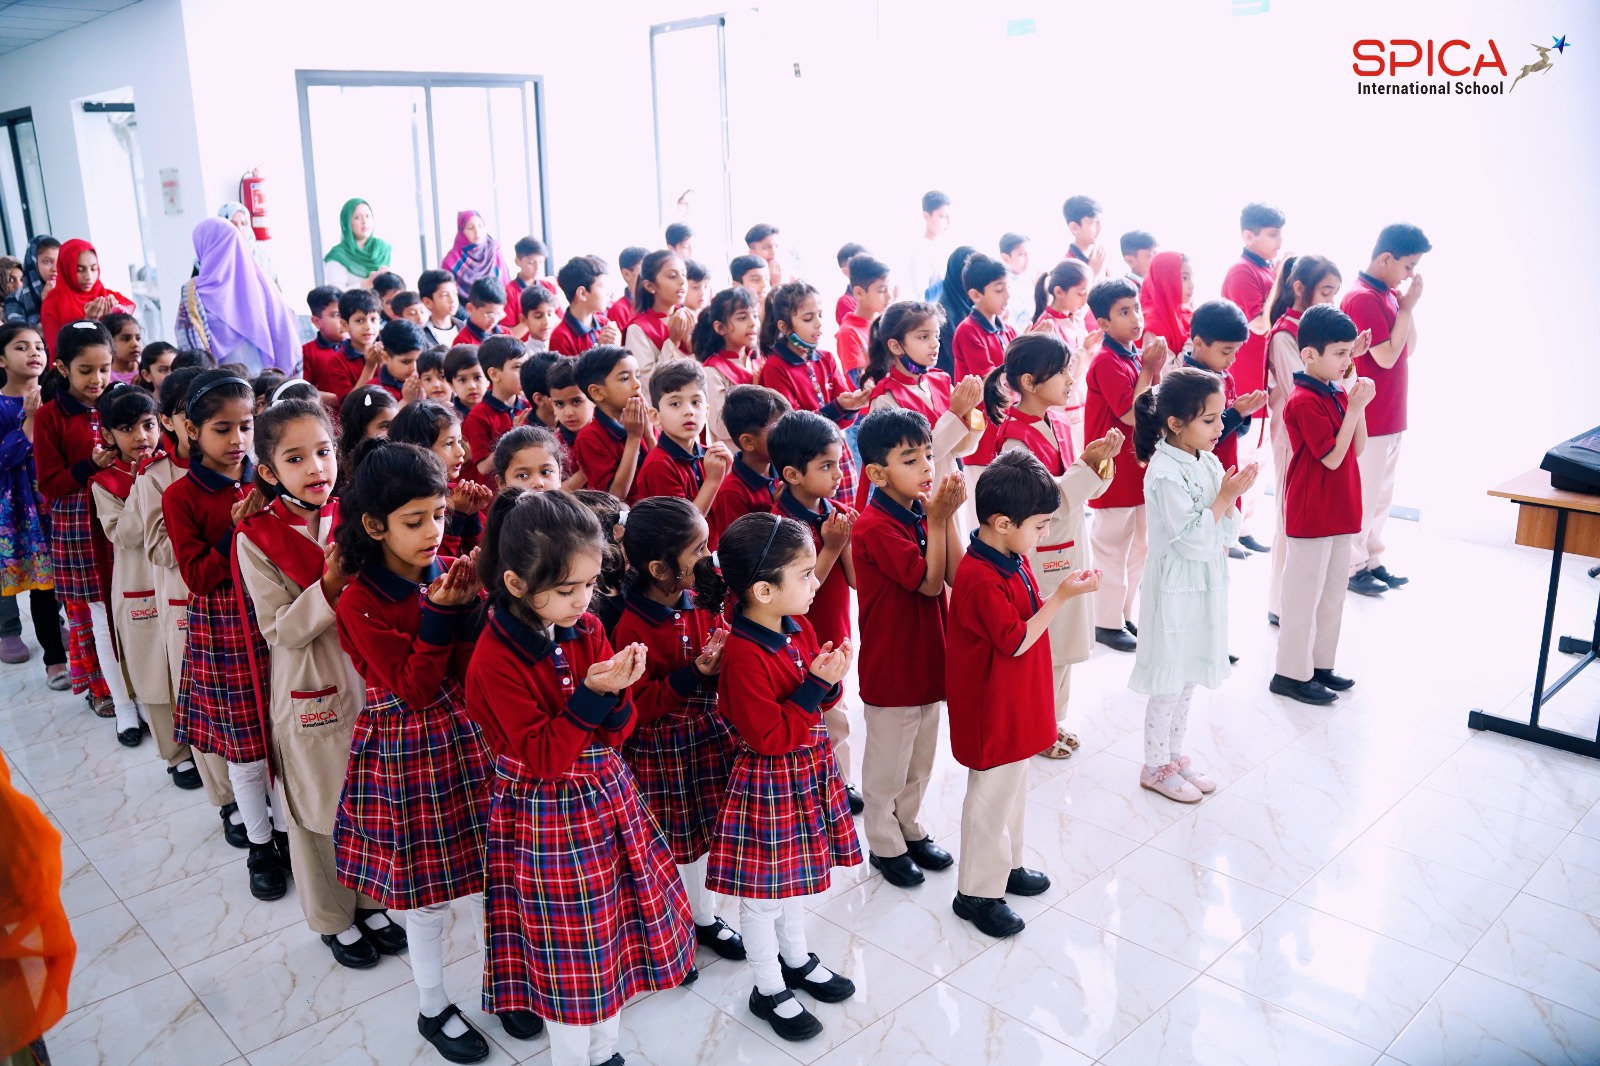
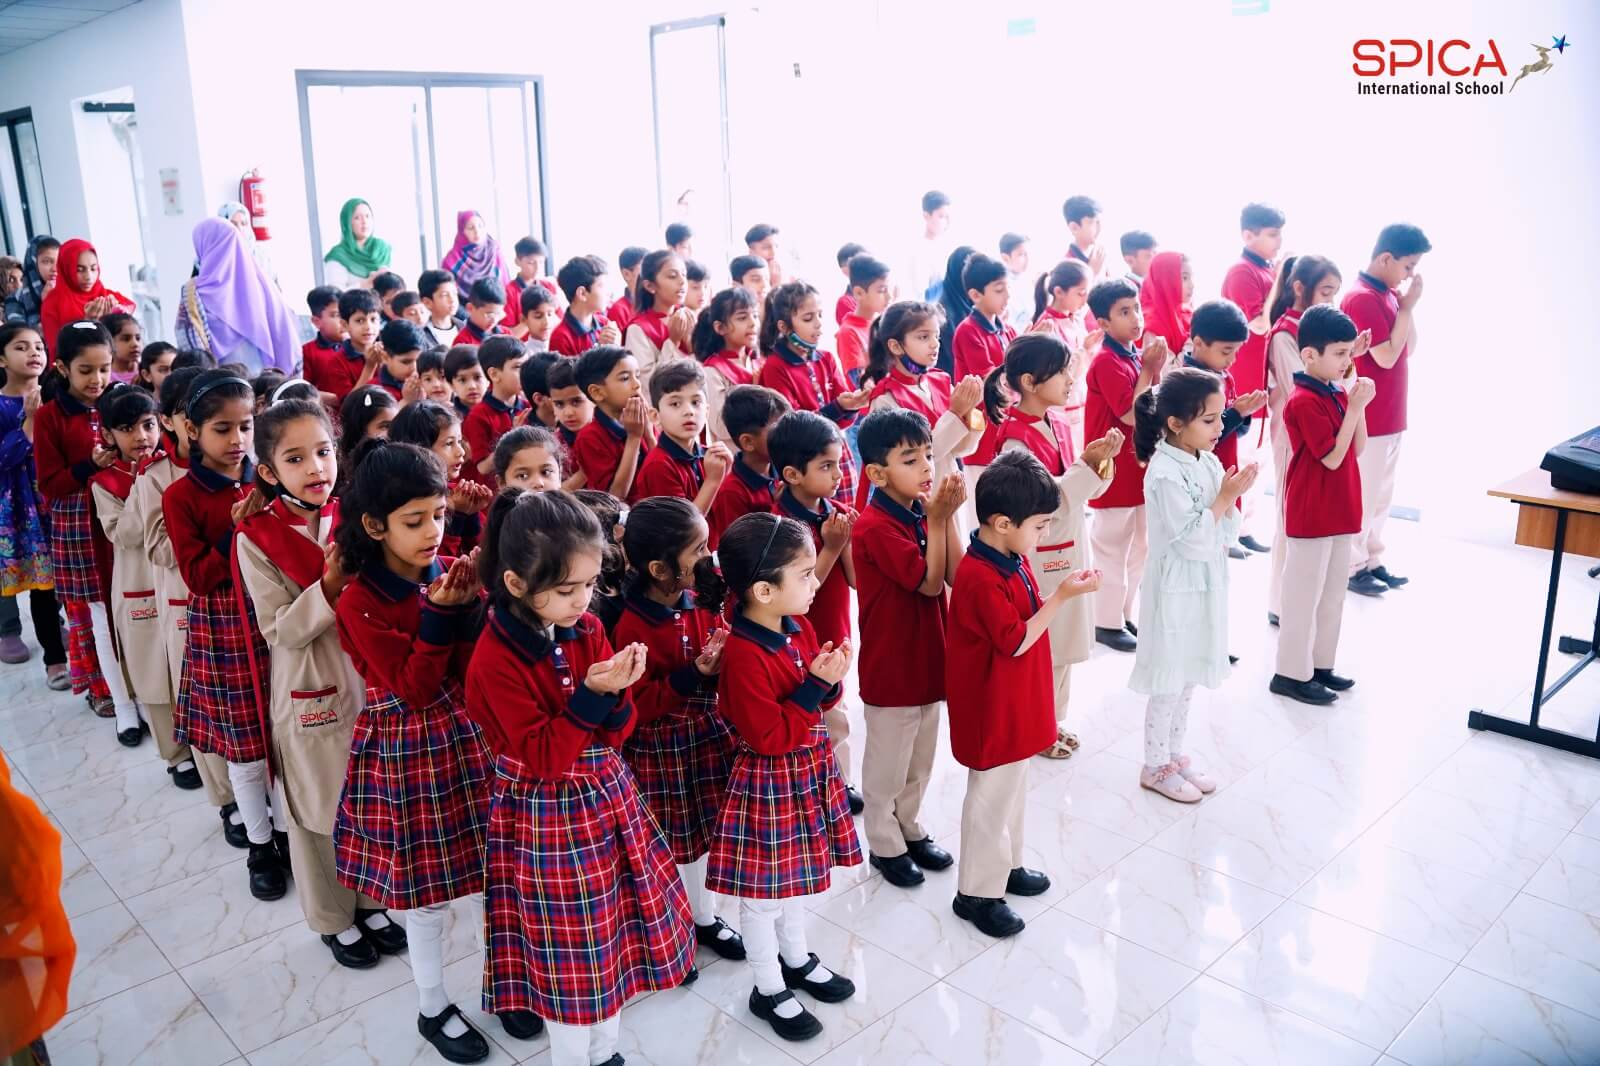
cc

diff --git a/pages/gallery.js b/pages/gallery.js
@@ -80,7 +80,7 @@ export default function About() {
 
       <MainHeader
         pageHeading="Gallery"
-        pageImg="header-2.jpg"
+        pageImg="header-2.webp"
       />
 
       <section className="main-sec">
@@ -106,19 +106,19 @@ export default function About() {
                               <img
                                 alt="gallery"
                                 className="block h-full w-full rounded-lg object-cover object-center"
-                                src="./images/gallery/1.jpg" />
+                                src="./images/gallery/1.webp" />
                             </div>
                             <div className="w-1/2 p-1 md:p-2">
                               <img
                                 alt="gallery"
                                 className="block h-full w-full rounded-lg object-cover object-center"
-                                src="./images/gallery/2.jpg" />
+                                src="./images/gallery/2.webp" />
                             </div>
                             <div className="w-full p-1 md:p-2">
                               <img
                                 alt="gallery"
                                 className="block h-full w-full rounded-lg object-cover object-center"
-                                src="./images/gallery/3.jpg" />
+                                src="./images/gallery/3.webp" />
                             </div>
                           </div>
                           <div className="flex w-1/2 flex-wrap">
@@ -126,19 +126,19 @@ export default function About() {
                               <img
                                 alt="gallery"
                                 className="block h-full w-full rounded-lg object-cover object-center"
-                                src="./images/gallery/4.jpg" />
+                                src="./images/gallery/4.webp" />
                             </div>
                             <div className="w-1/2 p-1 md:p-2">
                               <img
                                 alt="gallery"
                                 className="block h-full w-full rounded-lg object-cover object-center"
-                                src="./images/gallery/5.jpg" />
+                                src="./images/gallery/5.webp" />
                             </div>
                             <div className="w-1/2 p-1 md:p-2">
                               <img
                                 alt="gallery"
                                 className="block h-full w-full rounded-lg object-cover object-center"
-                                src="./images/gallery/6.jpg" />
+                                src="./images/gallery/6.webp" />
                             </div>
                           </div>
                         </div>
@@ -198,7 +198,7 @@ export default function About() {
                       <img
                         alt="gallery"
                         className="block h-full w-full rounded-lg object-cover object-center"
-                        src="./images/gallery/7.jpg" />
+                        src="./images/gallery/7.webp" />
                     </div>
                   </div>
                   <div className="flex w-1/3 flex-wrap">
@@ -206,7 +206,7 @@ export default function About() {
                       <img
                         alt="gallery"
                         className="block h-full w-full rounded-lg object-cover object-center"
-                        src="./images/gallery/8.jpg" />
+                        src="./images/gallery/8.webp" />
                     </div>
                   </div>
                   <div className="flex w-1/3 flex-wrap">
@@ -214,7 +214,7 @@ export default function About() {
                       <img
                         alt="gallery"
                         className="block h-full w-full rounded-lg object-cover object-center"
-                        src="./images/gallery/9.jpg" />
+                        src="./images/gallery/9.webp" />
                     </div>
                   </div>
                   <div className="flex w-1/3 flex-wrap">
@@ -222,7 +222,7 @@ export default function About() {
                       <img
                         alt="gallery"
                         className="block h-full w-full rounded-lg object-cover object-center"
-                        src="./images/gallery/10.jpg" />
+                        src="./images/gallery/10.webp" />
                     </div>
                   </div>
                   <div className="flex w-1/3 flex-wrap">
@@ -230,7 +230,7 @@ export default function About() {
                       <img
                         alt="gallery"
                         className="block h-full w-full rounded-lg object-cover object-center"
-                        src="./images/gallery/11.jpg" />
+                        src="./images/gallery/11.webp" />
                     </div>
                   </div>
                   <div className="flex w-1/3 flex-wrap">
@@ -238,7 +238,7 @@ export default function About() {
                       <img
                         alt="gallery"
                         className="block h-full w-full rounded-lg object-cover object-center"
-                        src="./images/gallery/12.jpg" />
+                        src="./images/gallery/12.webp" />
                     </div>
                   </div>
                 </div>

diff --git a/components/footer.js b/components/footer.js
@@ -6,7 +6,7 @@ export default function Footer({ children, home }) {
       <section
         id="sec-footer"
         className="sec-footer border-t group bg-center bg-no-repeat bg-cover relative"
-        style={{ backgroundImage: "url('../images/footer-spica.jpg')" }}
+        style={{ backgroundImage: "url('../images/footer-spica.webp')" }}
       >
         <div className="w-full- h-full group-hover:opacity-80  absolute inset-0 z-10   "></div>
         <div className="container mx-auto px-5 z-20 relative">

diff --git a/pages/about.js b/pages/about.js
@@ -109,7 +109,7 @@ export default function About() {
 
       <MainHeader
         pageHeading="ABOUT US"
-        pageImg="header-1.jpg"
+        pageImg="header-1.webp"
       />
 
       <section className="main-sec">
